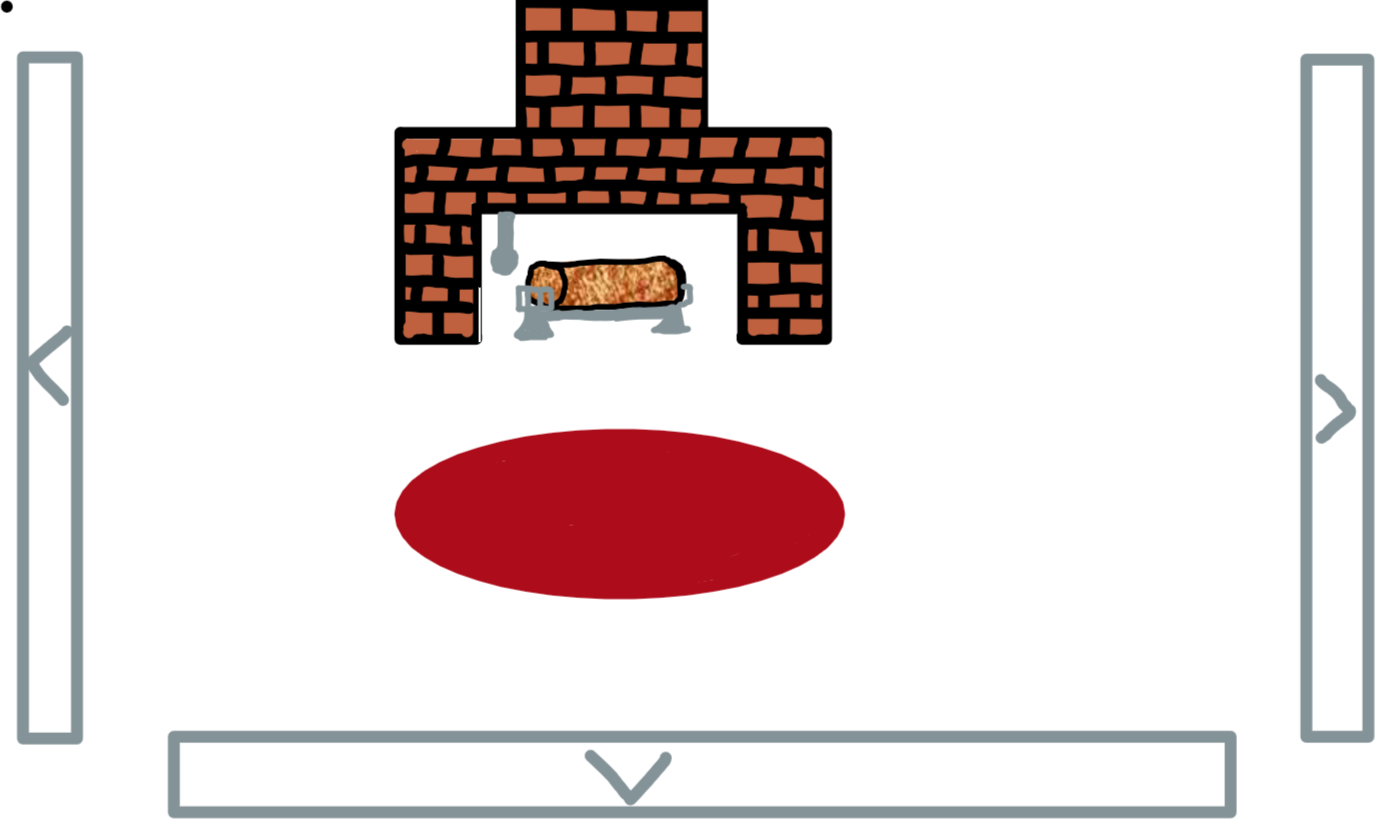
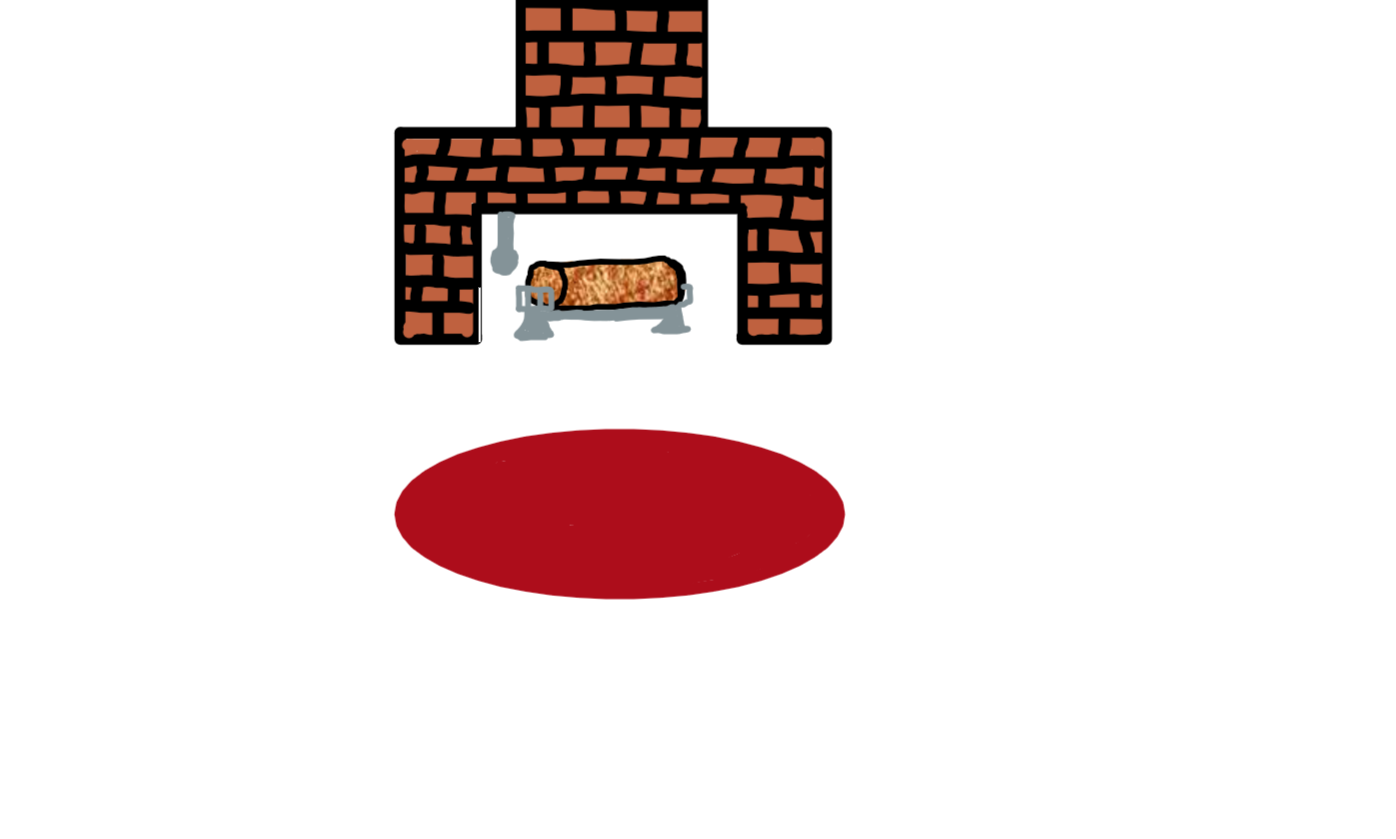
implemented button_manager and converted view controllers to be Buttons

diff --git a/game.py b/game.py
@@ -339,7 +339,9 @@ def handle_clicks(states: States, rects: dict, clicking: bool, right_clicking: b
                     if not states.B_firstattack:
                         states.B_checked = True
                         states.B_CTcountdown = states.B_checkedtime
-                elif rects['egg'].collidepoint(loc[0], loc[1]): egg_screen()
+                elif rects['egg'].collidepoint(loc[0], loc[1]): 
+                    # egg_screen()
+                    pass
                     
             elif states.view == "Window":
                 if rects['WI_LEFT'].collidepoint(loc[0], loc[1]): #this section needs control logic based on what view the fireplace screen should be
@@ -468,15 +470,16 @@ def draw_image(states: States, buttons: dict):
         else: WIN.blit(BUNKER_HELD, (0,0)) #display bunker held closed image
         
     # FEAR determining display
-    if states.playing:
-        WIN.blit(fear(states.fear), (80,10))
+    WIN.blit(fear(states.fear), (80,10))
 
     if states.paused:
         # note: this part needs to be at the bottom so that the pause menu will overlay everything else
         WIN.blit(PAUSE_MENU, (325, 125))
-        buttons['RESUME_BUTTON'].draw()
-        buttons['SETTINGS_BUTTON_PAUSED'].draw()
-        buttons['QUIT_BUTTON_PAUSED'].draw()
+        # buttons['RESUME_BUTTON'].draw()
+        # buttons['SETTINGS_BUTTON_PAUSED'].draw()
+        # buttons['QUIT_BUTTON_PAUSED'].draw()
+
+    for button in buttons: buttons[button].draw()
 
     if states.night_lost:
         if states.lose_timer > 10: WIN.blit(JUMPSCARE, (0,0))
@@ -492,6 +495,31 @@ def is_night_over(states: States):
     # player wins
     if states.num_seconds > 600: states.night_won = True
 
+# Function that determines what Buttons are to be displayed based on all current game states
+def button_manager(states: States, buttons: dict, rects: dict):
+    if states.view == 'Fireplace':
+        buttons['FP_LEFT'] = Button('PO_view_left_button_beta.png', 'PO_view_left_button_hover_beta.png', (17,32), WIN)
+        buttons['FP_RIGHT'] = Button('PO_view_right_button_beta.png', 'PO_view_right_button_hover_beta.png', (831,32), WIN)
+        buttons['FP_DOWN'] = Button('PO_view_down_button_beta.png', 'PO_view_down_button_hover_beta.png', (113,435), WIN)
+    
+    if states.view == 'Door':
+        buttons['DO_RIGHT'] = Button('PO_view_right_button_beta.png', 'PO_view_right_button_hover_beta.png', (787,28), WIN)
+
+    if states.view == 'Window':
+        buttons['WI_LEFT'] = Button('PO_view_left_button_beta.png', 'PO_view_left_button_hover_beta.png', (11,29), WIN)
+
+    if states.view == 'Bunker':
+        buttons['BU_DOWN'] = Button('PO_view_down_button_beta.png', 'PO_view_down_button_hover_beta.png', (113,422), WIN)
+
+    if states.paused:
+        buttons['RESUME_BUTTON'] = Button('PO_resume_button_beta.png', 'PO_resume_button_hover_beta.png', (405, 203), WIN)
+        buttons['SETTINGS_BUTTON_PAUSED'] = Button('PO_settings_button_beta.png', 'PO_settings_button_hover_beta.png', (405, 245), WIN)
+        buttons['QUIT_BUTTON_PAUSED'] = Button('PO_pausequit_beta.png', 'PO_pausequit_hover_beta.png', (405, 293), WIN)
+
+    # add every Button's rectangle to the rects dictionary
+    for button in buttons: rects[button] = buttons[button].rect
+        
+
 # Function that manages the in-game portion of the game. The actual implementations for the game's features,
 # such as click handeling and displaying images, are defined in the above functions.
 def game_screen(states: States):
@@ -505,41 +533,29 @@ def game_screen(states: States):
     states.playing = True # game is now being played
     advance = False # set to True when the player is ready to move onto the next screen
 
-    # Dictionary containing all of the Button objects to be used in the game
-    buttons = {
-        'RESUME_BUTTON': Button('PO_resume_button_beta.png', 'PO_resume_button_hover_beta.png', (405, 203), WIN),
-        'SETTINGS_BUTTON_PAUSED': Button('PO_settings_button_beta.png', 'PO_settings_button_hover_beta.png', (405, 245), WIN),
-        'QUIT_BUTTON_PAUSED': Button('PO_pausequit_beta.png', 'PO_pausequit_hover_beta.png', (405, 293), WIN)
-    }
-
-    # Dictionary containing all of the Rect objects to be used in the game
-    rects = {
-        'RESUME_BUTTON': buttons['RESUME_BUTTON'].rect,
-        'QUIT_BUTTON_PAUSED': buttons['QUIT_BUTTON_PAUSED'].rect,
-        'LOG': pygame.Rect((343, 157), (92, 18)),
-        'DAMPER': pygame.Rect((325, 125), (10, 24)),
-        'FP_RIGHT': pygame.Rect((831, 33), (44, 404)),
-        'FP_LEFT': pygame.Rect((17, 31), (40, 408)),
-        'FP_DOWN': pygame.Rect((113, 435), (674, 48)),
-        'WI_LEFT': pygame.Rect((19,27), (62,460)),
-        'WI_LOCK': pygame.Rect((489, 207), (68, 22)),
-        'DOOR': pygame.Rect((166, 28), (352, 454)),
-        'DO_RIGHT': pygame.Rect((786, 28), (80, 458)),
-        'BUNKER': pygame.Rect((112,34), (642, 312)),
-        'BU_DOWN': pygame.Rect((112,422), (644,43)),
-        'egg': pygame.Rect((390,290), (10,10))
-    }
-
     while not advance:
         clock.tick(FPS)
 
+        # Dictionary containing all of the Button objects to be used in the game
+        buttons = {}
+
+        # Dictionary containing all of the Rect objects to be used in the game
+        rects = {
+            'LOG': pygame.Rect((343, 157), (92, 18)),
+            'DAMPER': pygame.Rect((325, 125), (10, 24)),
+            'WI_LOCK': pygame.Rect((489, 207), (68, 22)),
+            'DOOR': pygame.Rect((166, 28), (352, 454)),
+            'BUNKER': pygame.Rect((112,34), (642, 312)),
+            'egg': pygame.Rect((390,290), (10,10))
+        }
+
         loc = pygame.mouse.get_pos()
-        print(loc)
+        button_manager(states, buttons, rects)
         handle_clicks(states, rects, clicking, right_clicking, loc)
         update_states(states)
         update_music(states)
         is_night_over(states)
-        draw_image(states, buttons) # update image after every event has been iterated through
+        draw_image(states, buttons) # update display after all game states have been updated
 
         if states.night_won: advance = True
 
